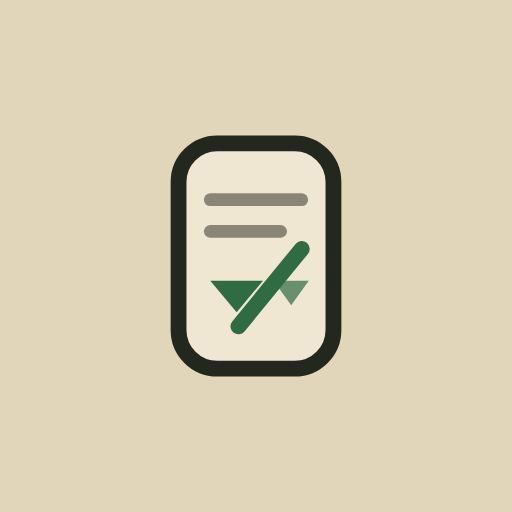
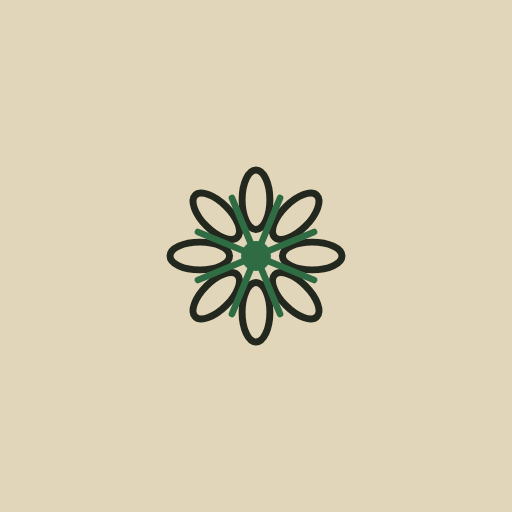
Adopt the star-rosette mark and a size-aware script wordmark
Logo: replace the tablet mark with the eight-fold star-rosette (star of
Inanna / Mesopotamian rosette) — strictly 8-fold, ink petals with accent
rays and a wedge core, theme-aware. Regenerate icon.svg + the 192/512 and
maskable PNG icons from it.

Wordmark: size-aware, self-hosted scripts (Great Vibes + Sacramento).
Great Vibes sets the name large on setup; the header uses monoline
Sacramento which stays legible small; at favicon/app-icon sizes the mark
carries the identity alone, so the small pixels never rely on an
illegible script.

Tests: 19 pass; build clean.

Claude-Session: https://claude.ai/code/session_01HxZbFewSJCbCpkKqmPvuWx

Changed region(s): [[0.3125, 0.25, 0.6875, 0.75]]

diff --git a/nisaba/app/src/App.jsx b/nisaba/app/src/App.jsx
@@ -14,20 +14,22 @@ const store = createIdbStore();
 // stores the override in localStorage.
 const DEFAULT_CLIENT_ID = '652122307592-300cfvid9hl2s4t59hm9c4mivbtm3beq.apps.googleusercontent.com';
 
-/* Nisaba mark — a clay tablet with two ruled lines, a cuneiform wedge and a
-   reed stylus. Theme-aware: the tablet frame + ruling take the current ink
-   colour, the wedge + stylus take the accent, so it prints correctly on paper,
-   in lights-out, and as the app icon. (Named for the Sumerian goddess of
-   writing; the tablet + reed + wedge are her instruments.) */
-function Logo({ size = 26 }) {
+/* Nisaba mark — an eight-fold star-rosette (the star of Inanna / Mesopotamian
+   rosette; the same eight-point motif with rounded petals and rays between).
+   Strictly 8-fold by design. Theme-aware: petals take the current ink colour,
+   the rays + core take the accent — so it prints on paper, in lights-out, and
+   as the app icon. Eight ellipse-petals + eight rays offset 22.5°. */
+function Logo({ size = 30 }) {
+  const petals = Array.from({ length: 8 }, (_, k) => (
+    <ellipse key={'p' + k} cx="32" cy="15" rx="4.2" ry="9" fill="none" stroke="currentColor" strokeWidth="2.1" transform={`rotate(${k * 45} 32 32)`} />
+  ));
+  const rays = Array.from({ length: 8 }, (_, k) => (
+    <line key={'r' + k} x1="32" y1="32" x2="32" y2="13" stroke="var(--accent)" strokeWidth="2" strokeLinecap="round" transform={`rotate(${k * 45 + 22.5} 32 32)`} />
+  ));
   return (
     <svg className="logo" width={size} height={size} viewBox="0 0 64 64" aria-hidden="true">
-      <rect x="12" y="6" width="40" height="52" rx="10" fill="none" stroke="currentColor" strokeWidth="4" />
-      <line x1="20" y1="19" x2="44" y2="19" stroke="currentColor" strokeWidth="3.2" strokeLinecap="round" opacity="0.5" />
-      <line x1="20" y1="27" x2="38" y2="27" stroke="currentColor" strokeWidth="3.2" strokeLinecap="round" opacity="0.5" />
-      <path d="M20 39 h13 l-6.5 8 Z" fill="var(--accent)" />
-      <path d="M36 39 h9 l-4.5 6 Z" fill="var(--accent)" opacity="0.7" />
-      <path d="M43 31 L27 51" stroke="var(--accent)" strokeWidth="4" strokeLinecap="round" />
+      {petals}{rays}
+      <circle cx="32" cy="32" r="4.5" fill="var(--accent)" />
     </svg>
   );
 }
@@ -123,8 +125,8 @@ export default function App() {
       <header className="hdr">
         <div className="hdr-inner">
           <a className="brand" href="#" onClick={(e) => { e.preventDefault(); setTab('notes'); }}>
-            <Logo size={26} />
-            <span className="word">NISA<b>BA</b></span>
+            <Logo size={30} />
+            <span className="word">Nisaba</span>
           </a>
           <span className="spacer" />
           <span className={'status ' + statusKey}>{STATUS_LABEL[status] || status}</span>
@@ -519,7 +521,7 @@ function SetupScreen({ onSave }) {
   const [value, setValue] = useState('');
   return (
     <div className="setup">
-      <div className="brand"><Logo size={34} /> <span className="word">NISA<b>BA</b></span></div>
+      <div className="brand"><Logo size={44} /> <span className="word big">Nisaba</span></div>
       <p>
         One-time setup: this app syncs through <strong>your own Google Drive</strong>, so it
         needs a Google OAuth Client ID you create for yourself. Follow{' '}

diff --git a/nisaba/app/src/styles.css b/nisaba/app/src/styles.css
@@ -76,12 +76,15 @@ input, textarea, button { font-family: inherit; }
   padding: 10px 16px; padding-top: calc(10px + env(safe-area-inset-top));
   display: flex; align-items: center; gap: 10px;
 }
-.brand { display: flex; align-items: center; gap: 9px; text-decoration: none; color: var(--ink); }
+.brand { display: flex; align-items: center; gap: 8px; text-decoration: none; color: var(--ink); }
+/* Size-aware wordmark: a monoline script (Sacramento) reads at header size;
+   the high-contrast display script (Great Vibes) is used large on setup; below
+   the header the mark alone carries the identity (favicon / app icon). */
 .brand .word {
-  font-family: "Saira Condensed", "Arial Narrow", sans-serif;
-  font-weight: 800; font-size: 22px; letter-spacing: 0.015em; line-height: 1;
+  font-family: "Sacramento", cursive; font-weight: 400;
+  font-size: 30px; line-height: 1; padding-bottom: 3px;
 }
-.brand .word b { color: var(--accent); font-weight: 800; }
+.brand .word.big { font-family: "Great Vibes", cursive; font-size: 52px; padding-bottom: 6px; }
 .logo { display: block; flex: none; }
 .hdr .spacer { flex: 1; }
 .status {

diff --git a/nisaba/app/src/main.jsx b/nisaba/app/src/main.jsx
@@ -7,6 +7,8 @@ import '@fontsource/inter/600.css';
 import '@fontsource/inter/700.css';
 import '@fontsource/saira-condensed/600.css';
 import '@fontsource/saira-condensed/800.css';
+import '@fontsource/great-vibes/400.css';
+import '@fontsource/sacramento/400.css';
 
 import App from './App.jsx';
 import './styles.css';
